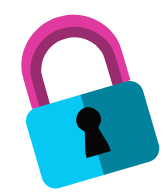
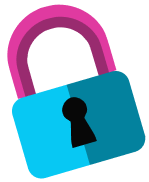
fav

diff --git a/public/index.html b/public/index.html
@@ -2,7 +2,7 @@
 <html lang="en">
   <head>
     <meta charset="utf-8" />
-    <link rel="icon" href="%PUBLIC_URL%/favicon.ico" />
+    <link rel="icon" href="%PUBLIC_URL%/lock.ico" />
     <meta name="viewport" content="width=device-width, initial-scale=1" />
     <meta name="theme-color" content="#000000" />
     <meta
@@ -15,35 +15,11 @@
       name="apple-mobile-web-app-status-bar-style"
       content="black-translucent"
     />
-    <link rel="apple-touch-icon" href="%PUBLIC_URL%/logo192.png" />
-    <!--
-      manifest.json provides metadata used when your web app is installed on a
-      user's mobile device or desktop. See https://developers.google.com/web/fundamentals/web-app-manifest/
-    -->
-    <link rel="manifest" href="%PUBLIC_URL%/manifest.json" />
-    <!--
-      Notice the use of %PUBLIC_URL% in the tags above.
-      It will be replaced with the URL of the `public` folder during the build.
-      Only files inside the `public` folder can be referenced from the HTML.
 
-      Unlike "/favicon.ico" or "favicon.ico", "%PUBLIC_URL%/favicon.ico" will
-      work correctly both with client-side routing and a non-root public URL.
-      Learn how to configure a non-root public URL by running `npm run build`.
-    -->
     <title>Lock Sports</title>
   </head>
   <body>
     <noscript>You need to enable JavaScript to run this app.</noscript>
     <div id="root"></div>
-    <!--
-      This HTML file is a template.
-      If you open it directly in the browser, you will see an empty page.
-
-      You can add webfonts, meta tags, or analytics to this file.
-      The build step will place the bundled scripts into the <body> tag.
-
-      To begin the development, run `npm start` or `yarn start`.
-      To create a production bundle, use `npm run build` or `yarn build`.
-    -->
   </body>
 </html>
